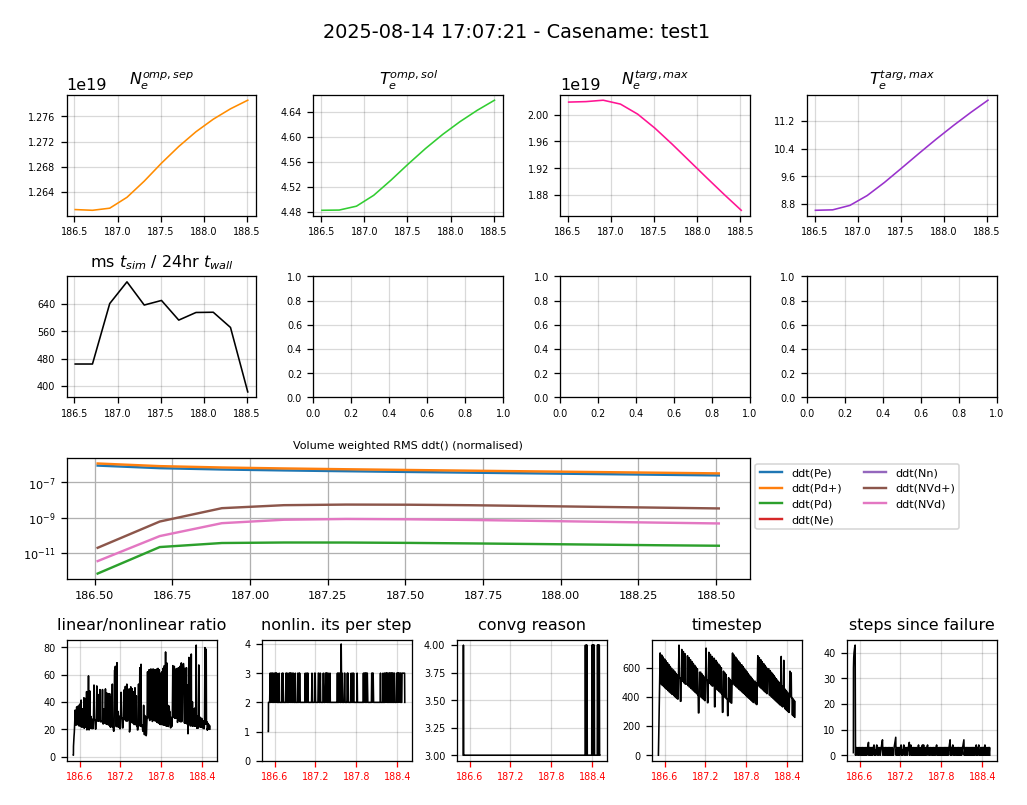
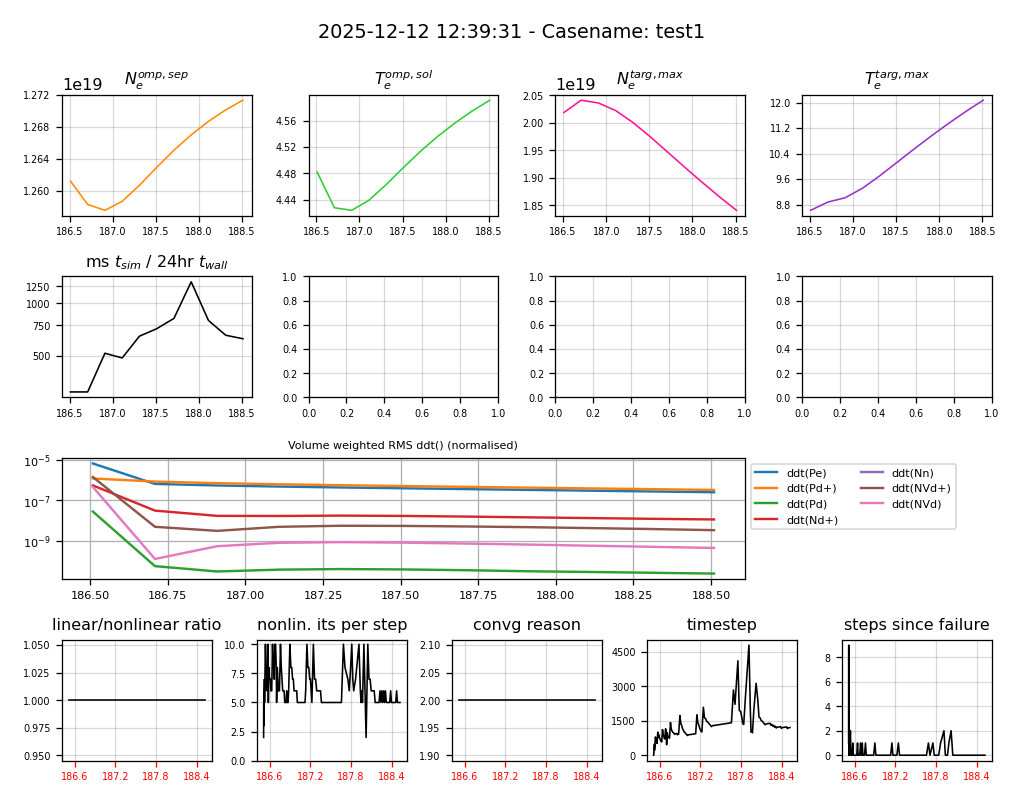
Update tests and results. MUMPS now default

diff --git a/readme.md b/readme.md
@@ -33,7 +33,8 @@ Time: 17865419.980739746, timestep: 0.028925465497599993, nl iter: 1, lin iter: 
 ```
 
 ## Hermes-3 and BOUT++ version requirements
-At the moment, you need to use commit d1cf522 (https://github.com/boutproject/hermes-3/pull/388)
+Use the this Hermes-3 master commit: 8430ce75a0162d915e42fc8146e283fc87d1c866
+Currently you need to use this BOUT++ version: https://github.com/boutproject/BOUT-dev/pull/3226
 
 ## Post-processing
 This repo includes M. Kryjak's personal post-processing script repo `sdtools`. The cases can be post-processed using the `cmonitor.py` tool:
@@ -73,8 +74,11 @@ This test restarts from the baseline with x1.5 power and runs 10 output timestep
 - Original grid ID: g3e4-lores_widev2_nonortho_xpoint.nc
 
 Known performance on M. Kryjak's machine (see solver settings section):
- - SNES-1 settings: 5m 3s (~550 ms/24hrs)
+ - SNES-1 settings: 5m 3s (~550 ms/24hrs) (Aug 2025)
+ - SNES-MUMPS-1 settings: 4m 45s (Dec 2025)
 
+### Performance with SNES-MUMPS-1 (default)
+![Test 1 diagnostic output](mon_test1.png)
 
 ## Test 2
 Based on the full, unsimplified version of Test 1. It's a lot more computationally intensive than Test 1 
@@ -87,17 +91,12 @@ with a lower neutral pump albedo, which leads to the reduction of plasma density
 - Original grid ID: g3e4f1-lores_widev2_nonortho_xpoint_allf.nc
 
 Known performance on M. Kryjak's machine (short):
- - SNES-1 settings: 4m 44s (~30 ms/24hrs)
- - SNES-STRUMPACK-2 settings: 45s
+ - SNES-1 settings: 4m 44s (~30 ms/24hrs) (Sept 2025)
+ - SNES-STRUMPACK-2 settings: 45s  (Sept 2025)
+ - SNES-MUMPS-1 settings: 1m 42s (Dec 2025)
 
-### Performance with SNES-MUMPS-1 over longer time period
-![Test 2 diagnostic output](mon_test2-SNES-MUMPS-1-long.png)
-
-<!-- ### Performance with SNES-1
+### Performance with SNES-MUMPS-1 (default)
 ![Test 2 diagnostic output](mon_test2.png)
-
-### Performance with SNES-STRUMPACK-2
-![Test 2 diagnostic output, STRUMPACK-2](mon_test2-SNES-STRUMPACK-2.png) -->
 
 
 ## Test 3
@@ -105,10 +104,11 @@ Based on DIII-D. Relevant to M. Tsagkiridis' project. It's a very challenging
 test because it's nearly from scratch, so everything is changing. Needs 10 cores to run.
 
 Known performance on M. Kryjak's machine:
- - SNES-1 settings: 3m 11s  (~8 ms/24hrs)
+ - SNES-1 settings: 3m 11s  (~8 ms/24hrs) (Sept 2025)
+ - SNES-MUMPS-1 settings: 26s (Dec 2025)
 
-<!-- ### Performance with SNES-1
-![Test 3 diagnostic output](mon_test3.png) -->
+### Performance with SNES-MUMPS-1 (default)
+![Test 3 diagnostic output](mon_test3.png)
 
 ## PETSc configuration
 To enable STRUMPACK, use the following configure flags for PETSc:
